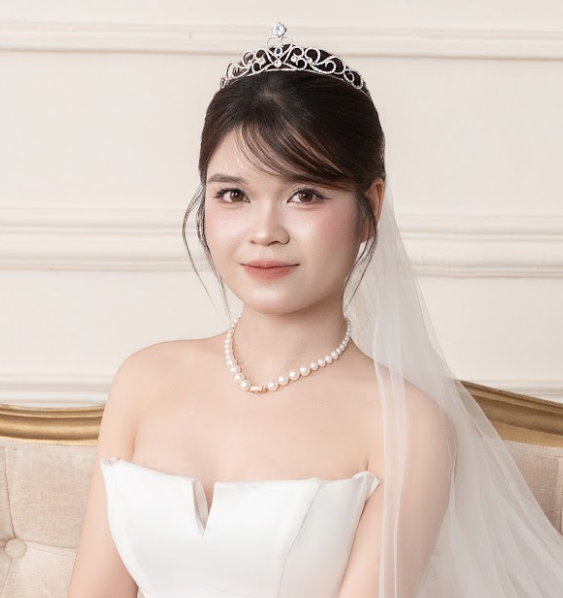
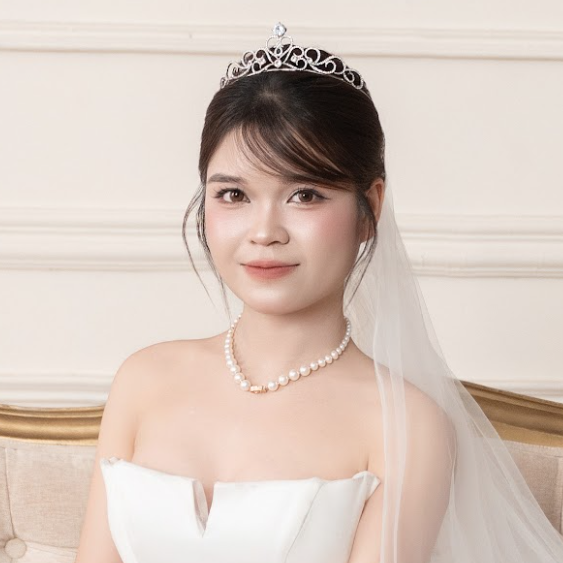
Add imageimage

diff --git a/app.vue b/app.vue
@@ -17,11 +17,11 @@
     <div class="mt-4">
       <NuxtImg
         class="rounded-xl md:rounded-2xl cursor-pointer"
-        src="/images/anh-phong/DSC09391.jpg"
+        src="/images/anh-phong/DSC09391.webp"
         alt="Switching Image"
         @click="
           isModalOpen = true;
-          imageUrl = '/images/anh-phong/DSC09391.jpg';
+          imageUrl = '/images/anh-phong/DSC09391.webp';
         "
       />
     </div>
@@ -35,19 +35,7 @@
       />
       <Banner2 />
     </div>
-    <div class="mt-4">
-      <div class="rounded-xl md:rounded-2xl overflow-hidden">
-        <NuxtImg
-          src="/images/bo-khung/15x21/DSC09457.jpg"
-          class="transition-transform duration-300 hover:scale-115 cursor-pointer"
-          alt="Switching Image"
-          @click="
-            isModalOpen11 = true;
-            imageUrl1 = '/images/bo-khung/15x21/DSC09457.jpg';
-          "
-        />
-      </div>
-    </div>
+
     <div class="relative mt-4 bg-fuchsia-50">
       <NuxtImg
         class="absolute z-10 w-30 -left-3 scale-x-[-1] opacity-75"
@@ -71,8 +59,45 @@
       {{ isShow }}
     </div> -->
     <div class="mt-4">
+      <div class="grid grid-cols-1 md:grid-cols-2 gap-4">
+        <div class="rounded-xl lg:rounded-2xl overflow-hidden">
+          <NuxtImg
+            src="/images/bo-khung/15x21/DSC09457.webp"
+            class="transition-transform duration-300 hover:scale-115 cursor-pointer"
+            alt="Switching Image"
+            @click="
+              isModalOpen11 = true;
+              imageUrl1 = '/images/bo-khung/15x21/DSC09457.webp';
+            "
+          />
+        </div>
+        <div class="rounded-xl lg:rounded-2xl overflow-hidden">
+          <NuxtImg
+            src="/images/videos/DSC09438.webp"
+            class="transition-transform duration-300 hover:scale-115 cursor-pointer"
+            alt="Switching Image"
+            @click="
+              isModalOpen11 = true;
+              imageUrl1 = '/images/videos/DSC09438.webp';
+            "
+          />
+        </div>
+        <!-- <div class="rounded-xl lg:rounded-2xl overflow-hidden">
+          <NuxtImg
+            src="/images/videos/DSC09438.webp"
+            class="transition-transform duration-300 hover:scale-115 cursor-pointer"
+            alt="Switching Image"
+            @click="
+              isModalOpen11 = true;
+              imageUrl1 = '/images/videos/DSC09438.webp';
+            "
+          />
+        </div> -->
+      </div>
+    </div>
+    <div class="mt-4">
       <div class="text-center mb-3 text-3xl title3">Bữa Cơm Thân Mật</div>
-      <div class="grid grid-cols-2 gap-4">
+      <div class="grid grid-cols-1 md:grid-cols-2 gap-4">
         <NuxtImg
           src="/images/thiep-moi/nhatrai.PNG"
           class="cursor-pointer w-full"
@@ -107,22 +132,22 @@
 
     <div class="mt-6">
       <h1 class="text-center text-3xl font-semibold mb-2 title4">CHÚC PHÚC</h1>
-      <p class="text-xl text-center title5">
+      <p class="text-xl text-center title5 text-gray-600">
         Cảm ơn tất cả tình cảm của cô dì chú bác, bạn bè và anh chị em đã dành
         cho Thọ & Hồng
       </p>
-      <div class="grid grid-cols-2 gap-14 mt-4">
+      <div class="grid grid-cols-1 md:grid-cols-2 gap-6 lg:gap-14 mt-4 mx-4 lg:mx-8">
         <div class="text-center">
           <NuxtImg
             src="/images/tho1.png"
             alt="Bride"
             fit="cover"
-            class="rounded-full border-4"
+            class="rounded-full border-4 lg:bg-6 border-gray-600"
           />
           <div class="mt-3 text-2xl title3">Chú Rể</div>
           <div class="mt-3 text-2xl title">Viết Thọ</div>
           <button
-            class="py-3 px-10 border-2 rounded-lg mt-4 cursor-pointer lg:text-xl mung-cuoi"
+            class="py-3 px-10 border-4 border-red-300 bg-red-500 hover:bg-red-400 text-white rounded-lg mt-4 font-semibold cursor-pointer lg:text-xl mung-cuoi"
             @click="
               () => {
                 isShowQRTho = true;
@@ -137,12 +162,12 @@
             src="/images/hong1.png"
             alt="Bride"
             fit="cover"
-            class="rounded-full border-4"
+            class="rounded-full border-4 lg:bg-6 border-gray-600"
           />
           <div class="mt-3 text-2xl title3">Cô dâu</div>
           <div class="mt-3 text-2xl title">Tưởng Hồng</div>
           <button
-            class="py-3 px-10 border-2 rounded-lg mt-4 cursor-pointer lg:text-xl mung-cuoi"
+            class="py-3 px-10 border-4 border-red-300 bg-red-500 hover:bg-red-400 text-white rounded-lg mt-4 font-semibold cursor-pointer lg:text-xl mung-cuoi"
             @click="isShowQRHong = true"
           >
             Mừng Cưới
@@ -197,19 +222,19 @@
 
 <script setup>
 useHead({
-  title: "Tiêu đề trang của bạn",
+  title: "The wedding Tho and Hong",
   meta: [
-    { property: "og:title", content: "Wedding of Tho and Hong" },
-    { property: "og:description", content: "Wedding of Tho and Hong" },
+    { property: "og:title", content: "The Wedding of Tho and Hong" },
+    { property: "og:description", content: "The wedding of Tho and Hong" },
     {
       property: "og:image",
-      content: "https://learn.microsoft.com/vi-vn/windows-hardware/design/images/desktop.png",
+      content:
+        "https://learn.microsoft.com/vi-vn/windows-hardware/design/images/desktop.png",
     },
-    { property: "og:url", content: "https://learn.microsoft.com/vi-vn/windows-hardware/design/images/desktop.png" },
+    { property: "og:url", content: "The wedding of Tho and Hong" },
     { property: "og:type", content: "website" },
   ],
 });
-import ImageGalary from "./components/ImageGalary.vue";
 
 const isShowQRTho = ref(false);
 const isShowQRHong = ref(false);
@@ -243,7 +268,7 @@ const getIndex = (index) => {
 }
 
 .title4 {
-  font-family: Saira, cursive;
+  font-family: "Dancing Script", cursive;
 }
 
 .title5 {

diff --git a/components/Slider.vue b/components/Slider.vue
@@ -11,38 +11,11 @@
     :thumbs="{ swiper: thumbsSwiper }"
     :modules="modules"
   >
-    <swiper-slide
+    <swiper-slide v-for="(image, index) in imageList" :key="Math.random()"
       ><NuxtImg
         class="w-full h-full object-cover"
-        src="/images/anh-ban/DSC08697.jpg"
-        @click="click(0)" /></swiper-slide
-    ><swiper-slide
-      ><NuxtImg
-        class="w-full h-full object-cover"
-        src="/images/anh-phong/DSC08964.jpg"
-  
-        @click="click(1)" /></swiper-slide
-    ><swiper-slide
-      ><NuxtImg
-        class="w-full h-full object-cover"
-        src="/images/bo-khung/15x21/DSC09003.jpg"
-
-        @click="click(2)" /></swiper-slide
-    ><swiper-slide
-      ><NuxtImg
-        class="w-full h-full object-cover"
-        src="/images/bo-khung/15x21/DSC09477.jpg"
-        @click="click(3)" /></swiper-slide
-    ><swiper-slide
-      ><NuxtImg
-        class="w-full h-full object-cover"
-        src="/images/bo-khung/20x30/DSC08666.jpg"
-        @click="click(4)" /></swiper-slide
-    ><swiper-slide
-      ><NuxtImg
-        class="w-full h-full object-cover"
-        src="/images/bo-khung/25x25/DSC08764.jpg"
-        @click="click(5)"
+        :src="image"
+        @click="click(index)"
     /></swiper-slide>
   </swiper>
   <swiper
@@ -55,43 +28,38 @@
     :modules="modules"
     class="mt-2"
   >
-    <swiper-slide
+    <swiper-slide v-for="(image, index) in imageList" :key="Math.random()"
       ><NuxtImg
         class="w-full h-full object-cover cursor-pointer"
-        src="/images/anh-ban/DSC08697.jpg"
+        :src="image"
         @click="click(0)"
-     /></swiper-slide
+    /></swiper-slide>
+    <!-- <swiper-slide
+      ><NuxtImg
+        class="w-full h-full object-cover cursor-pointer"
+        src="/images/anh-phong/DSC08964.webp"
+        @click="click(1)" /></swiper-slide
     ><swiper-slide
       ><NuxtImg
         class="w-full h-full object-cover cursor-pointer"
-        src="/images/anh-phong/DSC08964.jpg"
-
-        @click="click(1)"
-     /></swiper-slide
-    ><swiper-slide
-      ><NuxtImg
-        class="w-full h-full object-cover cursor-pointer"
-        src="/images/bo-khung/15x21/DSC09003.jpg"
-        @click="click(2)"
-/></swiper-slide
+        src="/images/bo-khung/15x21/DSC09003.webp"
+        @click="click(2)" /></swiper-slide
     ><swiper-slide
       ><NuxtImg
         class="w-full h-full object-cover"
-        src="/images/bo-khung/15x21/DSC09477.jpg"
-        @click="click(3)"
-   /></swiper-slide
+        src="/images/bo-khung/15x21/DSC09477.webp"
+        @click="click(3)" /></swiper-slide
     ><swiper-slide
       ><NuxtImg
         class="w-full h-full object-cover cursor-pointer"
-        src="/images/bo-khung/20x30/DSC08666.jpg"
-        @click="click(4)"
-  /></swiper-slide
+        src="/images/bo-khung/20x30/DSC08666.webp"
+        @click="click(4)" /></swiper-slide
     ><swiper-slide
       ><NuxtImg
         class="w-full h-full object-cover cursor-pointer"
-        src="/images/bo-khung/25x25/DSC08764.jpg"
+        src="/images/bo-khung/25x25/DSC08764.webp"
         @click="click(5)"
-    /></swiper-slide>
+    /></swiper-slide> -->
   </swiper>
 </template>
 <script>
@@ -118,6 +86,30 @@ export default {
   },
   emits: ["sendIndex"],
   setup({ emits }) {
+    const imageList = ref([
+      "/images/anh-ban/DSC08697.webp",
+      "/images/anh-phong/DSC08964.webp",
+      "/images/bo-khung/15x21/DSC09003.webp",
+      "/images/bo-khung/15x21/DSC09477.webp",
+      "/images/bo-khung/20x30/DSC08666.webp",
+      "/images/bo-khung/25x25/DSC08764.webp",
+      "/images/videos/DSC08849.webp",
+      "/images/videos/DSC08874.webp",
+      "/images/videos/DSC08895.webp",
+      "/images/videos/DSC08955.webp",
+      "/images/videos/DSC09029.webp",
+      "/images/videos/DSC09048.webp",
+      "/images/videos/DSC09092.webp",
+      "/images/videos/DSC09098.webp",
+      "/images/videos/DSC09119.webp",
+      "/images/videos/DSC09131.webp",
+      "/images/videos/DSC09137.webp",
+      "/images/videos/DSC09198.webp",
+      "/images/videos/DSC09229.webp",
+      "/images/videos/DSC09352.webp",
+      "/images/videos/DSC09499.webp",
+    ]);
+
     const thumbsSwiper = ref(null);
 
     const setThumbsSwiper = (swiper) => {
@@ -125,8 +117,6 @@ export default {
     };
 
     const click = (index) => {
-      console.log('index: ', index);
-      
       emits("sendIndex", index);
     };
 
@@ -135,6 +125,7 @@ export default {
       setThumbsSwiper,
       modules: [FreeMode, Navigation, Thumbs, Autoplay],
       click,
+      imageList,
     };
   },
 };

diff --git a/components/Banner2.vue b/components/Banner2.vue
@@ -7,7 +7,7 @@
       <div class="flex flex-col">
         <div class="rounded-xl md:rounded-2xl overflow-hidden">
           <NuxtImg
-            src="/images/bo-khung/15x21/DSC08983.jpg"
+            src="/images/bo-khung/15x21/DSC08983.webp"
             alt="Bride"
             class="transition-transform duration-300 hover:scale-110 cursor-pointer"
             @click="
@@ -31,12 +31,12 @@
       <div class="flex flex-col">
         <div class="rounded-xl md:rounded-2xl overflow-hidden">
           <NuxtImg
-            src="/images/anh-phong/DSC09391.jpg"
+            src="/images/videos/DSC09352.webp"
             alt="Groom"
             class="transition-transform duration-300 hover:scale-105 cursor-pointer"
             @click="
               isModalOpen = true;
-              imageUrl = '/images/anh-phong/DSC09391.jpg';
+              imageUrl = '/images/videos/DSC09352.webp';
             "
           />
         </div>

diff --git a/components/ImageGalary.vue b/components/ImageGalary.vue
@@ -64,12 +64,12 @@ const props = withDefaults(
 
 // Image list
 const images = ref([
-  "/images/anh-ban/DSC08697.jpg",
-  "/images/anh-phong/DSC08964.jpg",
-  "/images/bo-khung/15x21/DSC09003.jpg",
-  "/images/bo-khung/15x21/DSC09477.jpg",
-  "/images/bo-khung/20x30/DSC08666.jpg",
-  "/images/bo-khung/25x25/DSC08764.jpg",
+  "/images/anh-ban/DSC08697.webp",
+  "/images/anh-phong/DSC08964.webp",
+  "/images/bo-khung/15x21/DSC09003.webp",
+  "/images/bo-khung/15x21/DSC09477.webp",
+  "/images/bo-khung/20x30/DSC08666.webp",
+  "/images/bo-khung/25x25/DSC08764.webp",
 ]);
 
 watch(
